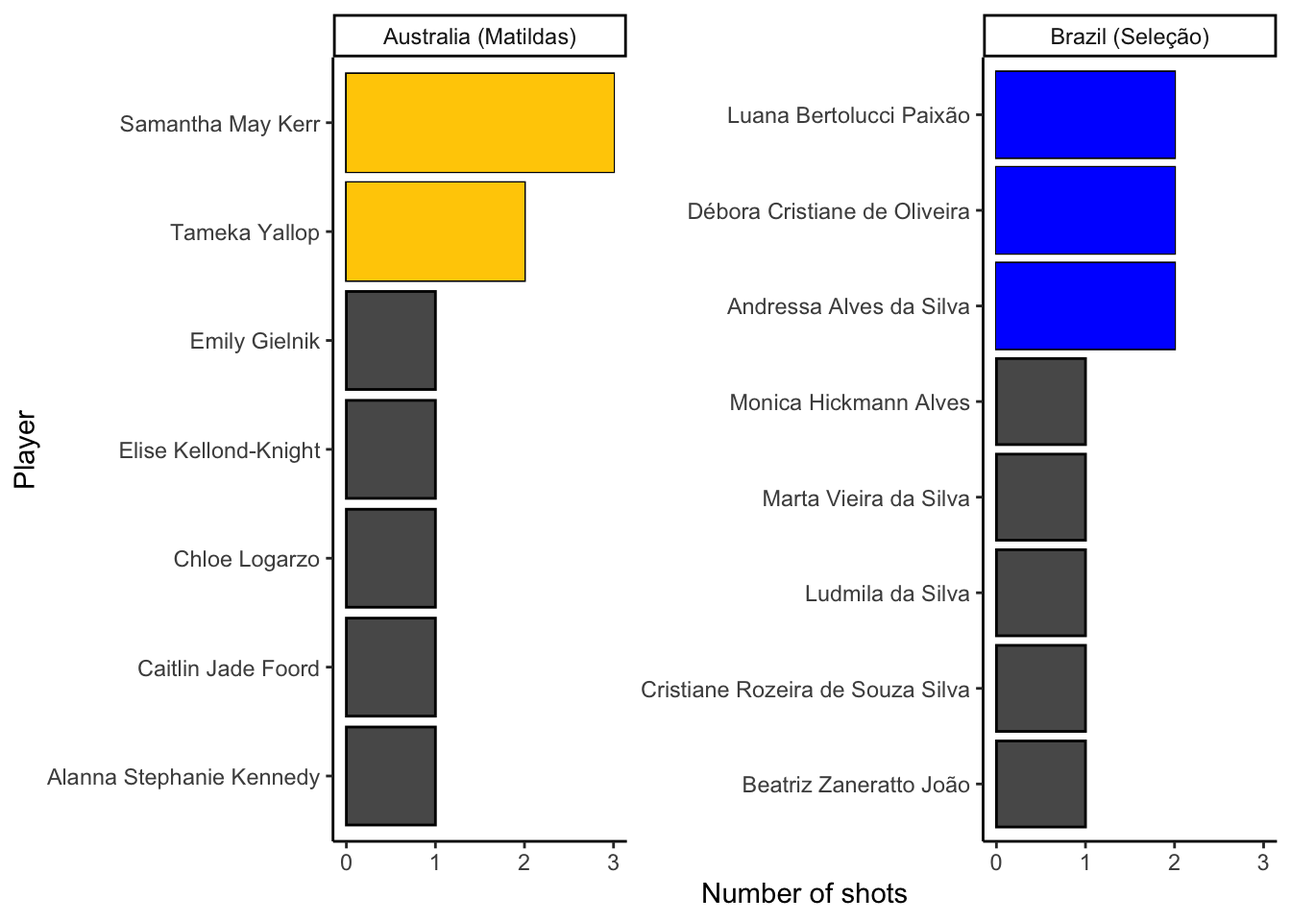
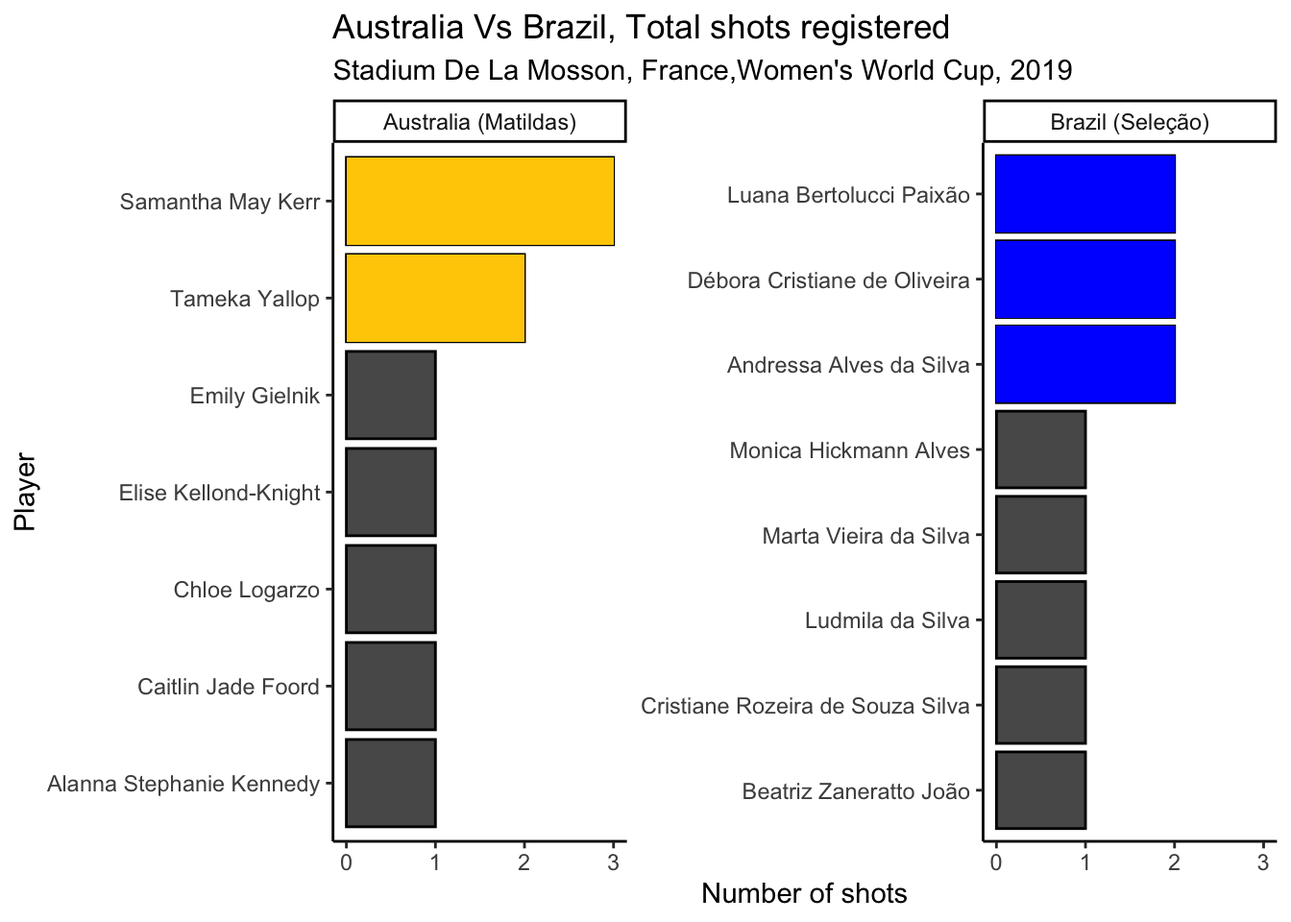
Long passes aanalysed

diff --git a/Q4.html b/Q4.html
@@ -169,8 +169,9 @@ pre > code.sourceCode > span > a:first-child::before { text-decoration: underlin
 <span id="cb3-5"><a href="#cb3-5" aria-hidden="true" tabindex="-1"></a></span>
 <span id="cb3-6"><a href="#cb3-6" aria-hidden="true" tabindex="-1"></a>total_shots_grouped <span class="ot">&lt;-</span> total_shots <span class="sc">%&gt;%</span> <span class="fu">group_by</span>(team_name,player.name) <span class="sc">%&gt;%</span> <span class="fu">mutate</span>(<span class="st">"Shot_incident"</span> <span class="ot">=</span> <span class="dv">1</span>) <span class="sc">%&gt;%</span> <span class="fu">summarise</span>(<span class="at">Total_shots =</span> <span class="fu">sum</span>(Shot_incident))</span>
 <span id="cb3-7"><a href="#cb3-7" aria-hidden="true" tabindex="-1"></a>pl2 <span class="ot">&lt;-</span> <span class="fu">ggplot</span>(<span class="at">data =</span> total_shots_grouped,<span class="fu">aes</span>(<span class="at">x =</span> <span class="fu">reorder</span>(player.name,Total_shots),<span class="at">y =</span> Total_shots)) <span class="sc">+</span> </span>
-<span id="cb3-8"><a href="#cb3-8" aria-hidden="true" tabindex="-1"></a>  <span class="fu">geom_col</span>(<span class="at">color=</span><span class="st">'black'</span>) <span class="sc">+</span> <span class="fu">geom_col</span>(<span class="at">data =</span> <span class="sc">~</span><span class="fu">filter</span>(.x, Total_shots <span class="sc">&gt;=</span> <span class="dv">2</span>,team_name <span class="sc">==</span> <span class="st">"Australia (Matildas)"</span>),<span class="at">fill =</span> <span class="st">"#FFCD00"</span>) <span class="sc">+</span> <span class="fu">geom_col</span>(<span class="at">data =</span> <span class="sc">~</span><span class="fu">filter</span>(.x, Total_shots <span class="sc">&gt;=</span> <span class="dv">2</span>,team_name <span class="sc">==</span> <span class="st">"Brazil (Seleção)"</span>),<span class="at">fill =</span> <span class="st">"blue"</span>)<span class="sc">+</span> <span class="fu">coord_flip</span>() <span class="sc">+</span> <span class="fu">facet_wrap</span>(<span class="sc">~</span>team_name,<span class="at">scales =</span> <span class="st">"free_y"</span>) <span class="sc">+</span> <span class="fu">theme_classic</span>() <span class="sc">+</span> <span class="fu">labs</span>(<span class="at">y =</span> <span class="st">"Number of shots"</span>,<span class="at">x =</span> <span class="st">"Player"</span>)</span>
-<span id="cb3-9"><a href="#cb3-9" aria-hidden="true" tabindex="-1"></a>pl2</span></code><button title="Copy to Clipboard" class="code-copy-button"><i class="bi"></i></button></pre></div>
+<span id="cb3-8"><a href="#cb3-8" aria-hidden="true" tabindex="-1"></a>  <span class="fu">geom_col</span>(<span class="at">color=</span><span class="st">'black'</span>) <span class="sc">+</span> <span class="fu">geom_col</span>(<span class="at">data =</span> <span class="sc">~</span><span class="fu">filter</span>(.x, Total_shots <span class="sc">&gt;=</span> <span class="dv">2</span>,team_name <span class="sc">==</span> <span class="st">"Australia (Matildas)"</span>),<span class="at">fill =</span> <span class="st">"#FFCD00"</span>) <span class="sc">+</span> <span class="fu">geom_col</span>(<span class="at">data =</span> <span class="sc">~</span><span class="fu">filter</span>(.x, Total_shots <span class="sc">&gt;=</span> <span class="dv">2</span>,team_name <span class="sc">==</span> <span class="st">"Brazil (Seleção)"</span>),<span class="at">fill =</span> <span class="st">"blue"</span>)<span class="sc">+</span> <span class="fu">coord_flip</span>() <span class="sc">+</span> <span class="fu">facet_wrap</span>(<span class="sc">~</span>team_name,<span class="at">scales =</span> <span class="st">"free_y"</span>) <span class="sc">+</span> <span class="fu">theme_classic</span>() <span class="sc">+</span> <span class="fu">labs</span>(<span class="at">y =</span> <span class="st">"Number of shots"</span>,<span class="at">x =</span> <span class="st">"Player"</span>,<span class="at">title =</span> <span class="st">"Australia Vs Brazil, Total shots registered"</span>, </span>
+<span id="cb3-9"><a href="#cb3-9" aria-hidden="true" tabindex="-1"></a>       <span class="at">subtitle =</span> <span class="st">"Stadium De La Mosson, France,Women's World Cup, 2019"</span>)</span>
+<span id="cb3-10"><a href="#cb3-10" aria-hidden="true" tabindex="-1"></a>pl2</span></code><button title="Copy to Clipboard" class="code-copy-button"><i class="bi"></i></button></pre></div>
 <div class="cell-output-display">
 <div id="fig-playershot" class="quarto-figure quarto-figure-center anchored">
 <figure class="figure">
@@ -191,7 +192,155 @@ pre > code.sourceCode > span > a:first-child::before { text-decoration: underlin
 </ol>
 <ol start="3" type="a">
 <li>Now let’s take a look at passes. The location from which passes are made could be characteristic of a team. Make a lineup to test whether the position from which a pass was made was different between Australia and Brazil. Conduct a visual inference analysis to determine if the actual plot can be distinguished from the null plots. Report your <span class="math inline">\(p\)</span>-value, after asking 8 of your friends to judge your lineup, and summarise your findings.</li>
+</ol>
+<div class="cell">
+<div class="sourceCode cell-code" id="cb4"><pre class="sourceCode r code-with-copy"><code class="sourceCode r"><span id="cb4-1"><a href="#cb4-1" aria-hidden="true" tabindex="-1"></a>passes_aus <span class="ot">=</span> aus_brazil <span class="sc">%&gt;%</span></span>
+<span id="cb4-2"><a href="#cb4-2" aria-hidden="true" tabindex="-1"></a><span class="fu">filter</span>(type.name<span class="sc">==</span><span class="st">"Pass"</span> <span class="sc">&amp;</span> <span class="fu">is.na</span>(pass.outcome.name) <span class="sc">&amp;</span> team.name <span class="sc">==</span> <span class="st">"Australia Women's"</span>) </span>
+<span id="cb4-3"><a href="#cb4-3" aria-hidden="true" tabindex="-1"></a></span>
+<span id="cb4-4"><a href="#cb4-4" aria-hidden="true" tabindex="-1"></a></span>
+<span id="cb4-5"><a href="#cb4-5" aria-hidden="true" tabindex="-1"></a><span class="fu">create_Pitch</span>() <span class="sc">+</span></span>
+<span id="cb4-6"><a href="#cb4-6" aria-hidden="true" tabindex="-1"></a><span class="fu">geom_segment</span>(<span class="at">data =</span> passes_aus, <span class="fu">aes</span>(<span class="at">x =</span> location.x, <span class="at">y =</span> location.y,</span>
+<span id="cb4-7"><a href="#cb4-7" aria-hidden="true" tabindex="-1"></a><span class="at">xend =</span> pass.end_location.x, <span class="at">yend =</span> pass.end_location.y), <span class="at">lineend =</span> <span class="st">"round"</span>, <span class="at">size =</span> <span class="fl">0.5</span>, <span class="at">colour =</span> <span class="st">"#FFCD00"</span>, <span class="at">arrow =</span></span>
+<span id="cb4-8"><a href="#cb4-8" aria-hidden="true" tabindex="-1"></a><span class="fu">arrow</span>(<span class="at">length =</span> <span class="fu">unit</span>(<span class="fl">0.07</span>, <span class="st">"inches"</span>), <span class="at">ends =</span> <span class="st">"last"</span>, <span class="at">type =</span> <span class="st">"open"</span>)) <span class="sc">+</span> <span class="fu">labs</span>(<span class="at">title =</span> <span class="st">"All passes of Australia"</span>,<span class="at">subtitle =</span> <span class="st">"Stadium De La Mosson, France,Women's World Cup, 2019"</span>)</span></code><button title="Copy to Clipboard" class="code-copy-button"><i class="bi"></i></button></pre></div>
+<div class="cell-output-display">
+<div id="fig-passausall" class="quarto-figure quarto-figure-center anchored">
+<figure class="figure">
+<p><img src="Q4_files/figure-html/fig-passausall-1.png" class="img-fluid figure-img" width="672"></p>
+<figcaption class="figure-caption">Figure&nbsp;3: Total complete passes by Australia</figcaption>
+</figure>
+</div>
+</div>
+</div>
+<div class="cell">
+<div class="sourceCode cell-code" id="cb5"><pre class="sourceCode r code-with-copy"><code class="sourceCode r"><span id="cb5-1"><a href="#cb5-1" aria-hidden="true" tabindex="-1"></a>passes_bra <span class="ot">=</span> aus_brazil <span class="sc">%&gt;%</span></span>
+<span id="cb5-2"><a href="#cb5-2" aria-hidden="true" tabindex="-1"></a><span class="fu">filter</span>(type.name<span class="sc">==</span><span class="st">"Pass"</span> <span class="sc">&amp;</span> <span class="fu">is.na</span>(pass.outcome.name) <span class="sc">&amp;</span> team.name <span class="sc">==</span> <span class="st">"Brazil Women's"</span>) </span>
+<span id="cb5-3"><a href="#cb5-3" aria-hidden="true" tabindex="-1"></a></span>
+<span id="cb5-4"><a href="#cb5-4" aria-hidden="true" tabindex="-1"></a><span class="fu">create_Pitch</span>() <span class="sc">+</span></span>
+<span id="cb5-5"><a href="#cb5-5" aria-hidden="true" tabindex="-1"></a><span class="fu">geom_segment</span>(<span class="at">data =</span> passes_bra, <span class="fu">aes</span>(<span class="at">x =</span> location.x, <span class="at">y =</span> location.y,</span>
+<span id="cb5-6"><a href="#cb5-6" aria-hidden="true" tabindex="-1"></a><span class="at">xend =</span> pass.end_location.x, <span class="at">yend =</span> pass.end_location.y), <span class="at">lineend =</span> <span class="st">"round"</span>, <span class="at">size =</span> <span class="fl">0.5</span>, <span class="at">colour =</span> <span class="st">"blue"</span>, <span class="at">arrow =</span></span>
+<span id="cb5-7"><a href="#cb5-7" aria-hidden="true" tabindex="-1"></a><span class="fu">arrow</span>(<span class="at">length =</span> <span class="fu">unit</span>(<span class="fl">0.07</span>, <span class="st">"inches"</span>), <span class="at">ends =</span> <span class="st">"last"</span>, <span class="at">type =</span> <span class="st">"open"</span>)) <span class="sc">+</span> <span class="fu">labs</span>(<span class="at">title =</span> <span class="st">"All passes of Brazil"</span>,</span>
+<span id="cb5-8"><a href="#cb5-8" aria-hidden="true" tabindex="-1"></a>                                                                           <span class="at">subtitle =</span> <span class="st">"Stadium De La Mosson, France,Women's World Cup, 2019"</span>)</span></code><button title="Copy to Clipboard" class="code-copy-button"><i class="bi"></i></button></pre></div>
+<div class="cell-output-display">
+<div id="fig-passbraall" class="quarto-figure quarto-figure-center anchored">
+<figure class="figure">
+<p><img src="Q4_files/figure-html/fig-passbraall-1.png" class="img-fluid figure-img" width="672"></p>
+<figcaption class="figure-caption">Figure&nbsp;4: Total complete passes by Brazil</figcaption>
+</figure>
+</div>
+</div>
+</div>
+<p>Upon analysing the completed passes made by Australia and Brazil throug <a href="#fig-passausall">Figure&nbsp;3</a> and <a href="#fig-passbraall">Figure&nbsp;4</a>, we observe the following:</p>
+<ol type="1">
+<li><strong>Australia made more number of successful passes as compared to Brazil</strong> as can be observed through the density of the arrows in the two figures.</li>
+<li><strong>Australia were observed to effectively use the left and right flanks</strong>.</li>
+<li>On the other hand, <strong>Brazil were observed to overload the right flank but not use the left flank as much</strong>.</li>
+<li>Australia were <strong>also observed to play centrally with more passes in the middle of the field as compared to Brazil</strong>.</li>
+</ol>
+<ol start="4" type="a">
 <li>The type of passes can also be characteristic of a team’s play. Explore this with the variable <code>pass.length</code>, using a visual inference analysis.</li>
+</ol>
+<p>Answer D</p>
+<div class="cell">
+<div class="sourceCode cell-code" id="cb6"><pre class="sourceCode r code-with-copy"><code class="sourceCode r"><span id="cb6-1"><a href="#cb6-1" aria-hidden="true" tabindex="-1"></a>pl5 <span class="ot">&lt;-</span> <span class="fu">ggplot</span>(<span class="at">data =</span> aus_brazil <span class="sc">%&gt;%</span> <span class="fu">mutate</span>(<span class="at">team_name =</span> <span class="fu">case_match</span>(team.name,<span class="st">"Australia Women's"</span><span class="sc">~</span><span class="st">"Australia (Matildas)"</span>,</span>
+<span id="cb6-2"><a href="#cb6-2" aria-hidden="true" tabindex="-1"></a>                                                                                          <span class="st">"Brazil Women's"</span><span class="sc">~</span><span class="st">"Brazil (Seleção)"</span>)),<span class="fu">aes</span>(<span class="at">x =</span> pass.length,<span class="at">fill =</span> team_name)) <span class="sc">+</span> <span class="fu">theme_classic</span>() <span class="sc">+</span> <span class="fu">geom_density</span>(<span class="at">alpha=</span><span class="fl">0.4</span>) <span class="sc">+</span> <span class="fu">labs</span>(<span class="at">x =</span> <span class="st">"Pass length (m)"</span>,<span class="at">y =</span> <span class="st">"Probability density"</span>,<span class="at">fill =</span> <span class="st">"Team name"</span>) <span class="sc">+</span> <span class="fu">scale_fill_manual</span>(<span class="at">values=</span><span class="fu">c</span>(<span class="st">'#FFCD00'</span>,<span class="st">'Blue'</span>)) </span>
+<span id="cb6-3"><a href="#cb6-3" aria-hidden="true" tabindex="-1"></a>pl5</span></code><button title="Copy to Clipboard" class="code-copy-button"><i class="bi"></i></button></pre></div>
+<div class="cell-output-display">
+<div id="fig-denspasslength" class="quarto-figure quarto-figure-center anchored">
+<figure class="figure">
+<p><img src="Q4_files/figure-html/fig-denspasslength-1.png" class="img-fluid figure-img" width="672"></p>
+<figcaption class="figure-caption">Figure&nbsp;5: Distribution of pass lengths</figcaption>
+</figure>
+</div>
+</div>
+</div>
+<p>Based on the analysis of <a href="#fig-denspasslength">Figure&nbsp;5</a>, we can observe the pass lengths of both teams are <strong>very similar</strong>. However, these passes could be in different locations on the pitch. Hence, we need to explore this variable further.</p>
+<div class="cell">
+<div class="sourceCode cell-code" id="cb7"><pre class="sourceCode r code-with-copy"><code class="sourceCode r"><span id="cb7-1"><a href="#cb7-1" aria-hidden="true" tabindex="-1"></a>passes_bra <span class="ot">=</span> aus_brazil <span class="sc">%&gt;%</span></span>
+<span id="cb7-2"><a href="#cb7-2" aria-hidden="true" tabindex="-1"></a><span class="fu">filter</span>(type.name<span class="sc">==</span><span class="st">"Pass"</span> <span class="sc">&amp;</span> <span class="fu">is.na</span>(pass.outcome.name) <span class="sc">&amp;</span> team.name <span class="sc">==</span> <span class="st">"Australia Women's"</span> <span class="sc">&amp;</span> pass.length <span class="sc">&gt;</span> <span class="dv">40</span>) </span>
+<span id="cb7-3"><a href="#cb7-3" aria-hidden="true" tabindex="-1"></a></span>
+<span id="cb7-4"><a href="#cb7-4" aria-hidden="true" tabindex="-1"></a><span class="fu">create_Pitch</span>() <span class="sc">+</span></span>
+<span id="cb7-5"><a href="#cb7-5" aria-hidden="true" tabindex="-1"></a><span class="fu">geom_segment</span>(<span class="at">data =</span> passes_bra, <span class="fu">aes</span>(<span class="at">x =</span> location.x, <span class="at">y =</span> location.y,</span>
+<span id="cb7-6"><a href="#cb7-6" aria-hidden="true" tabindex="-1"></a><span class="at">xend =</span> pass.end_location.x, <span class="at">yend =</span> pass.end_location.y), <span class="at">lineend =</span> <span class="st">"round"</span>, <span class="at">size =</span> <span class="fl">0.5</span>, <span class="at">colour =</span> <span class="st">"#FFCD00"</span>, <span class="at">arrow =</span></span>
+<span id="cb7-7"><a href="#cb7-7" aria-hidden="true" tabindex="-1"></a><span class="fu">arrow</span>(<span class="at">length =</span> <span class="fu">unit</span>(<span class="fl">0.07</span>, <span class="st">"inches"</span>), <span class="at">ends =</span> <span class="st">"last"</span>, <span class="at">type =</span> <span class="st">"open"</span>)) <span class="sc">+</span> <span class="fu">labs</span>(<span class="at">title =</span> <span class="st">"Long passes of Australia"</span>,</span>
+<span id="cb7-8"><a href="#cb7-8" aria-hidden="true" tabindex="-1"></a>                                                                           <span class="at">subtitle =</span> <span class="st">"Stadium De La Mosson, France,Women's World Cup, 2019"</span>)</span></code><button title="Copy to Clipboard" class="code-copy-button"><i class="bi"></i></button></pre></div>
+<div class="cell-output-display">
+<div id="fig-longpassauskey" class="quarto-figure quarto-figure-center anchored">
+<figure class="figure">
+<p><img src="Q4_files/figure-html/fig-longpassauskey-1.png" class="img-fluid figure-img" width="672"></p>
+<figcaption class="figure-caption">Figure&nbsp;6: Long passes by Australia</figcaption>
+</figure>
+</div>
+</div>
+</div>
+<div class="cell">
+<div class="sourceCode cell-code" id="cb8"><pre class="sourceCode r code-with-copy"><code class="sourceCode r"><span id="cb8-1"><a href="#cb8-1" aria-hidden="true" tabindex="-1"></a>passes_bra <span class="ot">=</span> aus_brazil <span class="sc">%&gt;%</span></span>
+<span id="cb8-2"><a href="#cb8-2" aria-hidden="true" tabindex="-1"></a><span class="fu">filter</span>(type.name<span class="sc">==</span><span class="st">"Pass"</span> <span class="sc">&amp;</span> <span class="fu">is.na</span>(pass.outcome.name) <span class="sc">&amp;</span> team.name <span class="sc">==</span> <span class="st">"Brazil Women's"</span> <span class="sc">&amp;</span> pass.length <span class="sc">&gt;</span> <span class="dv">40</span>) </span>
+<span id="cb8-3"><a href="#cb8-3" aria-hidden="true" tabindex="-1"></a></span>
+<span id="cb8-4"><a href="#cb8-4" aria-hidden="true" tabindex="-1"></a><span class="fu">create_Pitch</span>() <span class="sc">+</span></span>
+<span id="cb8-5"><a href="#cb8-5" aria-hidden="true" tabindex="-1"></a><span class="fu">geom_segment</span>(<span class="at">data =</span> passes_bra, <span class="fu">aes</span>(<span class="at">x =</span> location.x, <span class="at">y =</span> location.y,</span>
+<span id="cb8-6"><a href="#cb8-6" aria-hidden="true" tabindex="-1"></a><span class="at">xend =</span> pass.end_location.x, <span class="at">yend =</span> pass.end_location.y), <span class="at">lineend =</span> <span class="st">"round"</span>, <span class="at">size =</span> <span class="fl">0.5</span>, <span class="at">colour =</span> <span class="st">"blue"</span>, <span class="at">arrow =</span></span>
+<span id="cb8-7"><a href="#cb8-7" aria-hidden="true" tabindex="-1"></a><span class="fu">arrow</span>(<span class="at">length =</span> <span class="fu">unit</span>(<span class="fl">0.07</span>, <span class="st">"inches"</span>), <span class="at">ends =</span> <span class="st">"last"</span>, <span class="at">type =</span> <span class="st">"open"</span>)) <span class="sc">+</span> <span class="fu">labs</span>(<span class="at">title =</span> <span class="st">"Long passes of Brazil"</span>,</span>
+<span id="cb8-8"><a href="#cb8-8" aria-hidden="true" tabindex="-1"></a>                                                                           <span class="at">subtitle =</span> <span class="st">"Stadium De La Mosson, France,Women's World Cup, 2019"</span>)</span></code><button title="Copy to Clipboard" class="code-copy-button"><i class="bi"></i></button></pre></div>
+<div class="cell-output-display">
+<div id="fig-longpassbrakey" class="quarto-figure quarto-figure-center anchored">
+<figure class="figure">
+<p><img src="Q4_files/figure-html/fig-longpassbrakey-1.png" class="img-fluid figure-img" width="672"></p>
+<figcaption class="figure-caption">Figure&nbsp;7: Long passes by Brazil</figcaption>
+</figure>
+</div>
+</div>
+</div>
+<p>Based on our analysis of <a href="#fig-longpassauskey">Figure&nbsp;6</a> and <a href="#fig-longpassbrakey">Figure&nbsp;7</a>, we can make the following observations:</p>
+<ol type="1">
+<li>Most long passes for Australia originated from the Goalkeeper’s position</li>
+<li>On the other hand, Brazil’s long passes originated from the defense. This suggests that Brazil employed short goal kicks while Australia flung more balls from the goalkeeping position to an attacking position.</li>
+</ol>
+<div class="cell">
+<div class="sourceCode cell-code" id="cb9"><pre class="sourceCode r code-with-copy"><code class="sourceCode r"><span id="cb9-1"><a href="#cb9-1" aria-hidden="true" tabindex="-1"></a>passes_aus <span class="ot">=</span> aus_brazil <span class="sc">%&gt;%</span></span>
+<span id="cb9-2"><a href="#cb9-2" aria-hidden="true" tabindex="-1"></a><span class="fu">filter</span>(type.name<span class="sc">==</span><span class="st">"Pass"</span> <span class="sc">&amp;</span> <span class="fu">is.na</span>(pass.outcome.name) <span class="sc">&amp;</span> team.name <span class="sc">==</span> <span class="st">"Australia Women's"</span>) <span class="sc">%&gt;%</span> <span class="co">#1</span></span>
+<span id="cb9-3"><a href="#cb9-3" aria-hidden="true" tabindex="-1"></a><span class="fu">filter</span>(pass.end_location.x<span class="sc">&gt;=</span><span class="dv">102</span> <span class="sc">&amp;</span> pass.end_location.y<span class="sc">&lt;=</span><span class="dv">62</span> <span class="sc">&amp;</span> <span class="co"># Only key attacking passes</span></span>
+<span id="cb9-4"><a href="#cb9-4" aria-hidden="true" tabindex="-1"></a>pass.end_location.y<span class="sc">&gt;=</span><span class="dv">18</span>)</span>
+<span id="cb9-5"><a href="#cb9-5" aria-hidden="true" tabindex="-1"></a></span>
+<span id="cb9-6"><a href="#cb9-6" aria-hidden="true" tabindex="-1"></a></span>
+<span id="cb9-7"><a href="#cb9-7" aria-hidden="true" tabindex="-1"></a><span class="fu">create_Pitch</span>() <span class="sc">+</span></span>
+<span id="cb9-8"><a href="#cb9-8" aria-hidden="true" tabindex="-1"></a><span class="fu">geom_segment</span>(<span class="at">data =</span> passes_aus, <span class="fu">aes</span>(<span class="at">x =</span> location.x, <span class="at">y =</span> location.y,</span>
+<span id="cb9-9"><a href="#cb9-9" aria-hidden="true" tabindex="-1"></a><span class="at">xend =</span> pass.end_location.x, <span class="at">yend =</span> pass.end_location.y), <span class="at">lineend =</span> <span class="st">"round"</span>, <span class="at">size =</span> <span class="fl">0.5</span>, <span class="at">colour =</span> <span class="st">"#FFCD00"</span>, <span class="at">arrow =</span></span>
+<span id="cb9-10"><a href="#cb9-10" aria-hidden="true" tabindex="-1"></a><span class="fu">arrow</span>(<span class="at">length =</span> <span class="fu">unit</span>(<span class="fl">0.07</span>, <span class="st">"inches"</span>), <span class="at">ends =</span> <span class="st">"last"</span>, <span class="at">type =</span> <span class="st">"open"</span>)) <span class="sc">+</span> <span class="fu">labs</span>(<span class="at">title =</span> <span class="st">"Key attacking passes of Australia"</span>,</span>
+<span id="cb9-11"><a href="#cb9-11" aria-hidden="true" tabindex="-1"></a>                                                                           <span class="at">subtitle =</span> <span class="st">"Stadium De La Mosson, France,Women's World Cup, 2019"</span>)</span></code><button title="Copy to Clipboard" class="code-copy-button"><i class="bi"></i></button></pre></div>
+<div class="cell-output-display">
+<div id="fig-passauskey" class="quarto-figure quarto-figure-center anchored">
+<figure class="figure">
+<p><img src="Q4_files/figure-html/fig-passauskey-1.png" class="img-fluid figure-img" width="672"></p>
+<figcaption class="figure-caption">Figure&nbsp;8: Key passes by Australia</figcaption>
+</figure>
+</div>
+</div>
+</div>
+<div class="cell">
+<div class="sourceCode cell-code" id="cb10"><pre class="sourceCode r code-with-copy"><code class="sourceCode r"><span id="cb10-1"><a href="#cb10-1" aria-hidden="true" tabindex="-1"></a>passes_bra <span class="ot">=</span> aus_brazil <span class="sc">%&gt;%</span></span>
+<span id="cb10-2"><a href="#cb10-2" aria-hidden="true" tabindex="-1"></a><span class="fu">filter</span>(type.name<span class="sc">==</span><span class="st">"Pass"</span> <span class="sc">&amp;</span> <span class="fu">is.na</span>(pass.outcome.name) <span class="sc">&amp;</span> team.name <span class="sc">==</span> <span class="st">"Brazil Women's"</span>) <span class="sc">%&gt;%</span> <span class="co">#1</span></span>
+<span id="cb10-3"><a href="#cb10-3" aria-hidden="true" tabindex="-1"></a><span class="fu">filter</span>(pass.end_location.x<span class="sc">&gt;=</span><span class="dv">102</span> <span class="sc">&amp;</span> pass.end_location.y<span class="sc">&lt;=</span><span class="dv">62</span> <span class="sc">&amp;</span> <span class="co"># Only key attacking passes</span></span>
+<span id="cb10-4"><a href="#cb10-4" aria-hidden="true" tabindex="-1"></a>pass.end_location.y<span class="sc">&gt;=</span><span class="dv">18</span>)</span>
+<span id="cb10-5"><a href="#cb10-5" aria-hidden="true" tabindex="-1"></a></span>
+<span id="cb10-6"><a href="#cb10-6" aria-hidden="true" tabindex="-1"></a></span>
+<span id="cb10-7"><a href="#cb10-7" aria-hidden="true" tabindex="-1"></a><span class="fu">create_Pitch</span>() <span class="sc">+</span></span>
+<span id="cb10-8"><a href="#cb10-8" aria-hidden="true" tabindex="-1"></a><span class="fu">geom_segment</span>(<span class="at">data =</span> passes_bra, <span class="fu">aes</span>(<span class="at">x =</span> location.x, <span class="at">y =</span> location.y,</span>
+<span id="cb10-9"><a href="#cb10-9" aria-hidden="true" tabindex="-1"></a><span class="at">xend =</span> pass.end_location.x, <span class="at">yend =</span> pass.end_location.y), <span class="at">lineend =</span> <span class="st">"round"</span>, <span class="at">size =</span> <span class="fl">0.5</span>, <span class="at">colour =</span> <span class="st">"blue"</span>, <span class="at">arrow =</span></span>
+<span id="cb10-10"><a href="#cb10-10" aria-hidden="true" tabindex="-1"></a><span class="fu">arrow</span>(<span class="at">length =</span> <span class="fu">unit</span>(<span class="fl">0.07</span>, <span class="st">"inches"</span>), <span class="at">ends =</span> <span class="st">"last"</span>, <span class="at">type =</span> <span class="st">"open"</span>)) <span class="sc">+</span> <span class="fu">labs</span>(<span class="at">title =</span> <span class="st">"Key attacking passes of Brazil"</span>,</span>
+<span id="cb10-11"><a href="#cb10-11" aria-hidden="true" tabindex="-1"></a>                                                                           <span class="at">subtitle =</span> <span class="st">"Stadium De La Mosson, France,Women's World Cup, 2019"</span>)</span></code><button title="Copy to Clipboard" class="code-copy-button"><i class="bi"></i></button></pre></div>
+<div class="cell-output-display">
+<div id="fig-passbrakey" class="quarto-figure quarto-figure-center anchored">
+<figure class="figure">
+<p><img src="Q4_files/figure-html/fig-passbrakey-1.png" class="img-fluid figure-img" width="672"></p>
+<figcaption class="figure-caption">Figure&nbsp;9: Key passes by Brazil</figcaption>
+</figure>
+</div>
+</div>
+</div>
+<p>Upon analysing the key passes as illustrated by <a href="#fig-passauskey">Figure&nbsp;8</a> and <a href="#fig-passbrakey">Figure&nbsp;9</a>, we can make the following observations:</p>
+<ol type="1">
+<li>Australia was able to make more number of key passes in the box as compared to Brazil.</li>
+<li>Brazil were able to make only 4 outfield passes in the box while the other 2 were attributed to corners.</li>
 </ol>
 </section>
 
